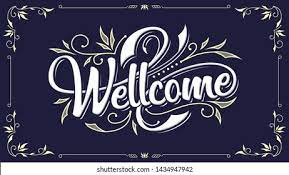
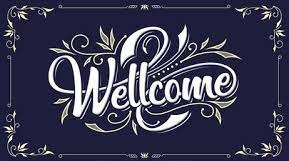
first commit

diff --git a/src/app/page/login/login.component.html b/src/app/page/login/login.component.html
@@ -1,6 +1,11 @@
-<h1>USUARIO CORRECTO usuario:Jorge password:password</h1>
+<p>USUARIO CORRECTO usuario:Jorge password:password</p>
+
+
+  
+
+
 <form class="form-signin">
-    <img class="mb-4" src="../../../assets/wellcome.jpg" alt="" width="272" height="72">
+    <img style="padding: auto;" class="mb-4" src="../../../assets/wellcome.jpg" alt="" width="100%" height="auto">
     <h1 class="h3 mb-3 font-weight-normal">Por favor ingresar</h1>
     <label for="inputEmail" class="sr-only">Usuario</label>
     
@@ -15,6 +20,6 @@
       </label>
     </div>
     <button class="btn btn-lg btn-primary btn-block" type="submit" (click)=ingresar()>ingresar</button>
-    <p class="mt-5 mb-3 text-muted">&copy; 2017-2021</p>
+   
 </form>
 

diff --git a/src/app/page/quien-soy/quien-soy.component.html b/src/app/page/quien-soy/quien-soy.component.html
@@ -1,6 +1,6 @@
 <!-- NAVBAR -->
 <nav class="navbar navbar-expand-md navbar-dark bg-dark ">
-    <a class="navbar-brand" href="#">INICIO</a>
+    <a class="navbar-brand" (click)=volver()>INICIO</a>
     <button class="navbar-toggler" type="button" data-toggle="collapse" data-target="#navbarCollapse" aria-controls="navbarCollapse" aria-expanded="false" aria-label="Toggle navigation">
       <span class="navbar-toggler-icon"></span>
     </button>

diff --git a/src/app/page/login/login.component.css b/src/app/page/login/login.component.css
@@ -10,14 +10,17 @@ body {
   align-items: center;
   padding-top: 40px;
   padding-bottom: 40px;
-  background-color: #f5f5f5;
+  background-color: rgb(56, 48, 48);
 }
+
 
 .form-signin {
   width: 100%;
   max-width: 330px;
   padding: 15px;
   margin: auto;
+  border: black 2px solid ;
+  border-radius: 20px;
 }
 .form-signin .checkbox {
   font-weight: 400;

diff --git a/src/app/page/quien-soy/quien-soy.component.ts b/src/app/page/quien-soy/quien-soy.component.ts
@@ -7,9 +7,12 @@ import { Router } from '@angular/router';
 })
 export class QuienSoyComponent implements OnInit {
 
-  constructor() { }
+  constructor(private rutas:Router) { }
 
   ngOnInit(): void {
   }
 
+  volver(){
+    this.rutas.navigate(['bienvenido'])
+  }
 }
